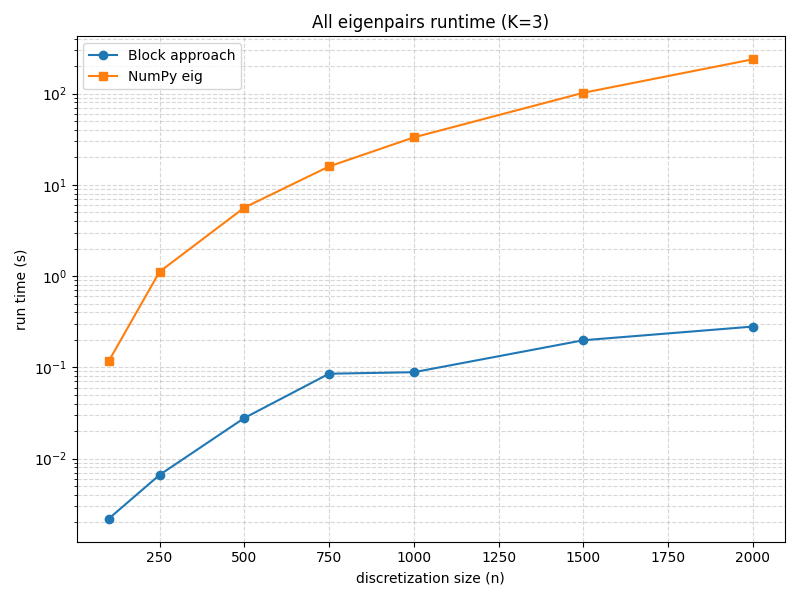
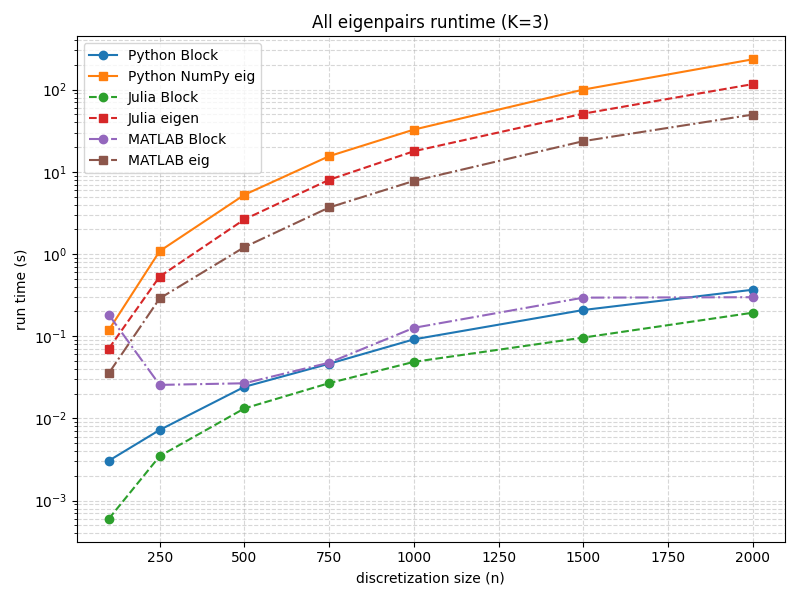
add runtime comparison figure

diff --git a/plot_results.py b/plot_results.py
@@ -1,16 +1,40 @@
 import pandas as pd
 import matplotlib.pyplot as plt
+from pathlib import Path
 
 def plot_runtime_comparison() -> None:
     """
     Docstring for plot_runtime_comparison.
     """
-    df = pd.read_csv("timings.csv")
-    K = df['K'][0]
+    # python csv
+    python_df = pd.read_csv("python_timings.csv")
+    K = python_df['K'][0]
+
+    curr_dir = Path(__file__).parent
+    base_dir = curr_dir.parent
+
+    # julia csv
+    julia_csv = base_dir / "Fast-Eigenvalue-Computation-Julia" / "julia_timings.csv"
+    julia_df = pd.read_csv(julia_csv)
+
+    # matlab csv
+    matlab_csv = base_dir / "fast_Jnlin_eigs" / "matlab_timings.csv"
+    matlab_df = pd.read_csv(matlab_csv)
 
     plt.figure(figsize=(8,6))
-    plt.semilogy(df.n, df.block_time, 'o-', label='Block approach')
-    plt.semilogy(df.n, df.dense_time, 's-', label='NumPy eig')
+
+    # python
+    plt.semilogy(python_df.n, python_df.block_time, 'o-', label='Python Block')
+    plt.semilogy(python_df.n, python_df.dense_time, 's-', label='Python NumPy eig')
+
+    # julia
+    plt.semilogy(julia_df.n, julia_df.block_time, 'o--', label='Julia Block')
+    plt.semilogy(julia_df.n, julia_df.dense_time, 's--', label='Julia eigen')
+
+    # matlab
+    plt.semilogy(matlab_df.n, matlab_df.block_time, 'o-.', label='MATLAB Block')
+    plt.semilogy(matlab_df.n, matlab_df.dense_time, 's-.', label='MATLAB eig')
+
     plt.xlabel('discretization size (n)')
     plt.ylabel('run time (s)')
     plt.title(f'All eigenpairs runtime (K={K})')
